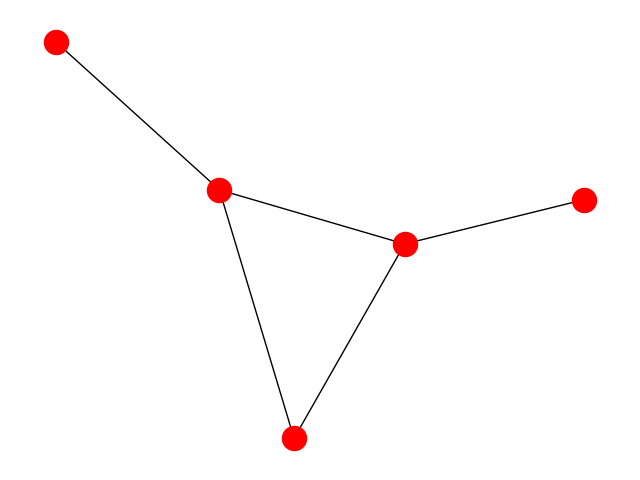
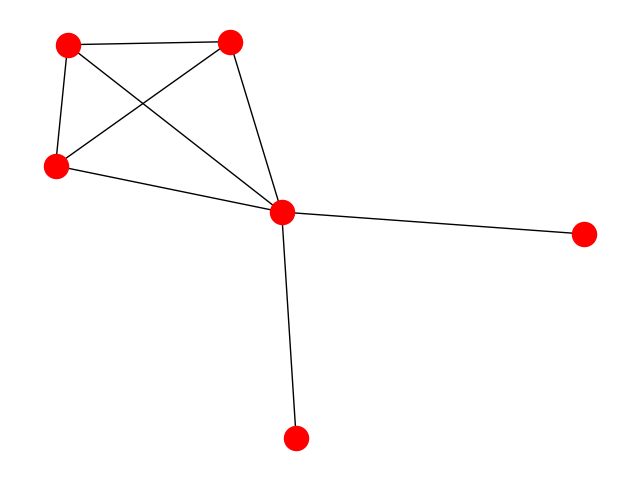
fixed bugs

diff --git a/v2/backend.py b/v2/backend.py
@@ -122,11 +122,12 @@ def anonimize(graph, kValue):
        if initialView[key] != finalView[key]:
            remaining[key] = finalView[key] - initialView[key]
    # node connector
-   while len(remaining) > 1:
+   while len(remaining) > 0:
       for i in range(len(remaining)):
          remaining = removeValues(remaining)
          keylist = list(key for key in remaining)
-         for j in range(i+1,len(remaining)):
+         j = i + 1
+         while j < len(keylist):
             if (keylist[i], keylist[j]) not in graph.edges():
                graph.add_edge(keylist[i],keylist[j])
                remaining[keylist[i]]-=1
@@ -140,6 +141,7 @@ def anonimize(graph, kValue):
                remaining[keylist[randomIndex]]-=1
             remaining = removeValues(remaining)
             keylist = list(key for key in remaining)
+            j+=1
    drawGraph(graph)
    return graph
 

diff --git a/v2/gui.py b/v2/gui.py
@@ -178,7 +178,7 @@ class Ui_MainWindow(object):
         if len(self.graph) == 0:
             self.kValueSlider.setMaximum(16)
         else:
-            self.kValueSlider.setMaximum(len(self.graph)-1)
+            self.kValueSlider.setMaximum(len(self.graph))
 
     def saveFile(self):
         dlg = QtGui.QFileDialog()
